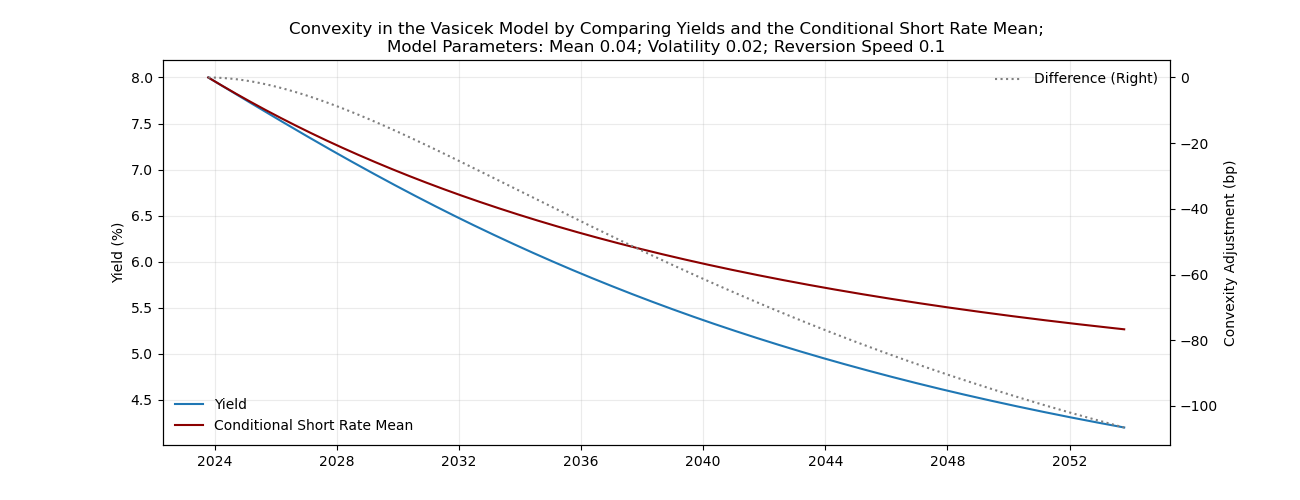
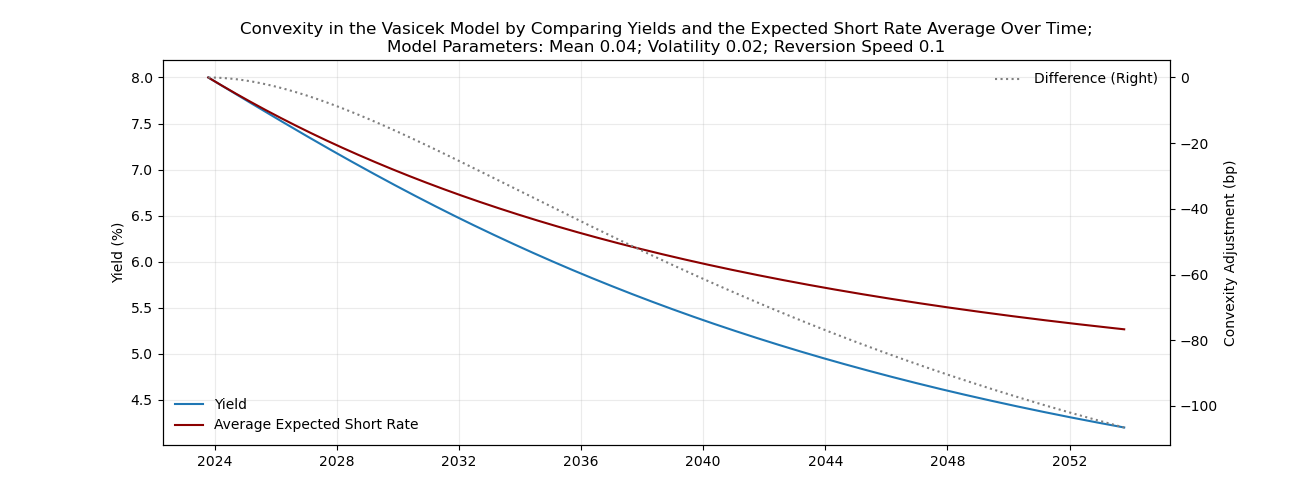
New Vasicek plots

Changed region(s): [[0.1846, 0.03, 0.8308, 0.09], [0.1538, 0.84, 0.3385, 0.87]]

diff --git a/fixedIncome/src/stochastics/short_rate_models/one_factor_models/vasicek_model.py b/fixedIncome/src/stochastics/short_rate_models/one_factor_models/vasicek_model.py
@@ -279,19 +279,23 @@ class VasicekModel(AffineModelMixin, ShortRateModel):
 
     def plot(self, show_fig: bool = False) -> None:
         """ Produces a plot of the model short rate path. """
-        initial_value = float(self.path[0,0])
         title_str = f'Vasicek Model Sample Path with Parameters\n' \
                     f'Mean {self.long_term_mean}; Volatility {self.volatility}; Reversion Speed {self.reversion_speed}'
         plt.figure(figsize=(15, 6))
         plt.title(title_str)
-        date_range = pd.date_range(start=self.start_date_time, end=self.end_date_time, periods=len(self.path.flatten())).to_pydatetime()
-        plt.plot(date_range, self.path.T * 100, linewidth=0.5, alpha=1)
-        plt.plot(date_range, [-self.expected_short_rate(datetime_obj) * 100 for datetime_obj in date_range],
+        date_range = Scheduler.generate_dates_by_increments(start_date=self.start_date_time,
+                                                            end_date=self.end_date_time,
+                                                            increment=self.dt,
+                                                            max_dates=1_000_000)
+
+        plt.plot(date_range, [self(datetime_obj) * 100 for datetime_obj in date_range], linewidth=0.5, alpha=1)
+        plt.plot(date_range, [self.expected_short_rate(datetime_obj) * 100 for datetime_obj in date_range],
                  linestyle='dotted', color='tab:red')
+
         plt.axhline(self.long_term_mean * 100, linestyle="--", linewidth=0.75, color="grey")
         plt.ylabel('Short Rate (%)')
         plt.grid(alpha=0.25)
-        plt.legend(['Sample Short Rate Path', 'Conditional Mean', 'Long-Term Mean'], frameon=False)
+        plt.legend(['Sample Short Rate Path', 'Expected Short Rate', 'Reversion Level'], frameon=False)
         if show_fig:
             plt.show()
 
@@ -299,7 +303,6 @@ class VasicekModel(AffineModelMixin, ShortRateModel):
 if __name__ == '__main__':
     from datetime import timedelta
     from dateutil.relativedelta import relativedelta
-    import itertools
     from fixedIncome.src.scheduling_tools.scheduler import Scheduler
 
     # ----------------------------------------------------------------
@@ -311,7 +314,7 @@ if __name__ == '__main__':
                                                    max_dates=1_000_000)
 
     vm = VasicekModel(long_term_mean=0.04,
-                      reversion_speed=0.1,
+                      reversion_speed=0.5,
                       volatility=0.02,
                       start_date_time=start_time,
                       end_date_time=end_time)
@@ -319,9 +322,9 @@ if __name__ == '__main__':
     path = vm.generate_path(starting_value=0.08, set_path=True, seed=1)
     admissible_dates = [date_obj for date_obj in dates if date_obj <= vm.end_date_time]
 
-    #vm.plot()
-    #plt.savefig('../../../../../../fixedIncome/docs/images/Vasicek_Short_Rate.png')
-    #plt.show()
+    vm.plot()
+    plt.savefig('../../../../../../fixedIncome/docs/images/Vasicek_Short_Rate.png')
+    plt.show()
 
     # DISCOUNT CURVES
     #NUM_CURVES = 20
@@ -343,7 +346,14 @@ if __name__ == '__main__':
 
     # CONVEXITY
 
+    vm = VasicekModel(long_term_mean=0.04,
+                      reversion_speed=0.1,
+                      volatility=0.02,
+                      start_date_time=start_time,
+                      end_date_time=end_time)
+
     INITIAL_SHORT_RATE = 0.08
+    vm.generate_path(starting_value=INITIAL_SHORT_RATE, set_path=True, seed=1)
     vm_avg_short_rate = np.zeros((1, len(admissible_dates)))
     vm_avg_df = np.zeros((1, len(admissible_dates)))
     vm_avg_integrated_path = np.zeros((1, len(admissible_dates)))
@@ -361,12 +371,12 @@ if __name__ == '__main__':
              color='darkred')
 
     plt.grid(alpha=0.25)
-    plt.title(f'Convexity in the Vasicek Model by Comparing Yields and the Conditional Short Rate Mean;'
+    plt.title(f'Convexity in the Vasicek Model by Comparing Yields and the Expected Short Rate Average Over Time;'
               f'\nModel Parameters: Mean {vm.long_term_mean}; Volatility {vm.volatility}; Reversion Speed {vm.reversion_speed}')
     plt.ylabel('Yield (%)')
     plt.legend([
         'Yield',
-        'Conditional Short Rate Mean'],
+        'Average Expected Short Rate'],
                loc='lower left', frameon=False)
 
     ax2 = ax.twinx()
@@ -528,4 +538,5 @@ if __name__ == '__main__':
     plt.title(f'Instantaneous Forward Rate Process Sample Paths in the Vasicek Model\n'
                f'Model Parameters: Mean {vm.long_term_mean}; Volatility {vm.volatility}; Reversion Speed {reversion_speed}')
     plt.tight_layout()
+    plt.savefig('../../../../../../fixedIncome/docs/images/Vasicek_Instantaneous_Forward_Rate_Processes.png')
     plt.show()
